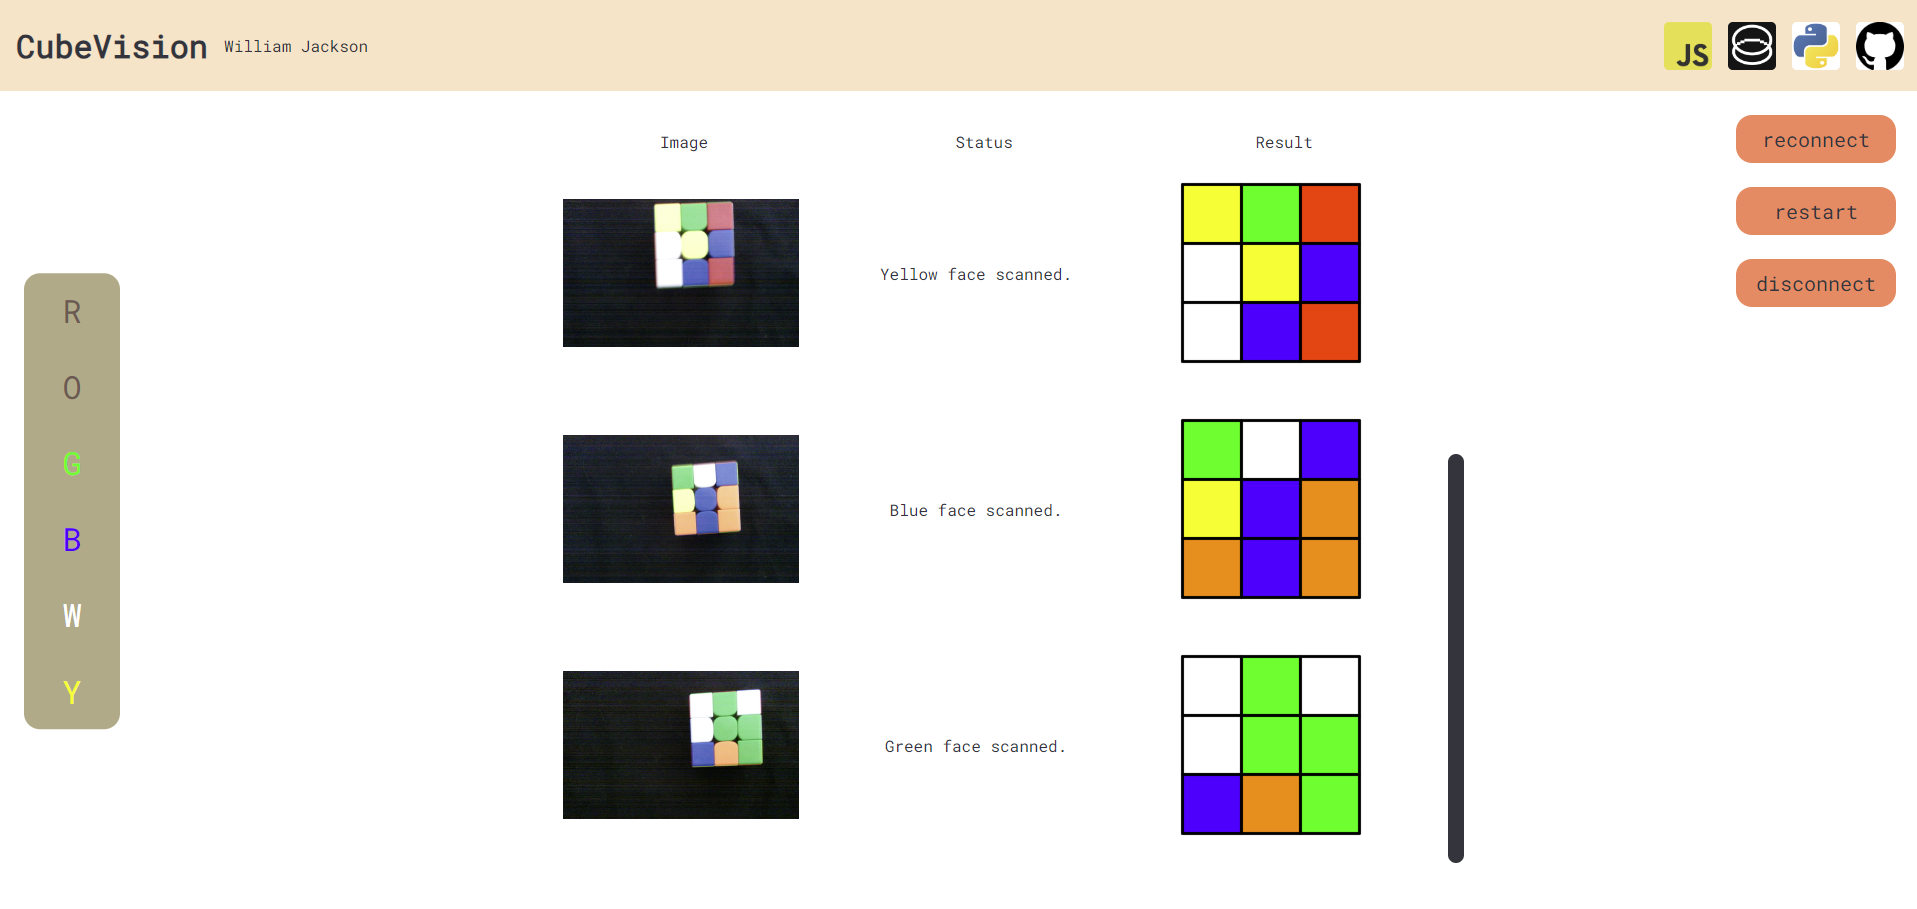
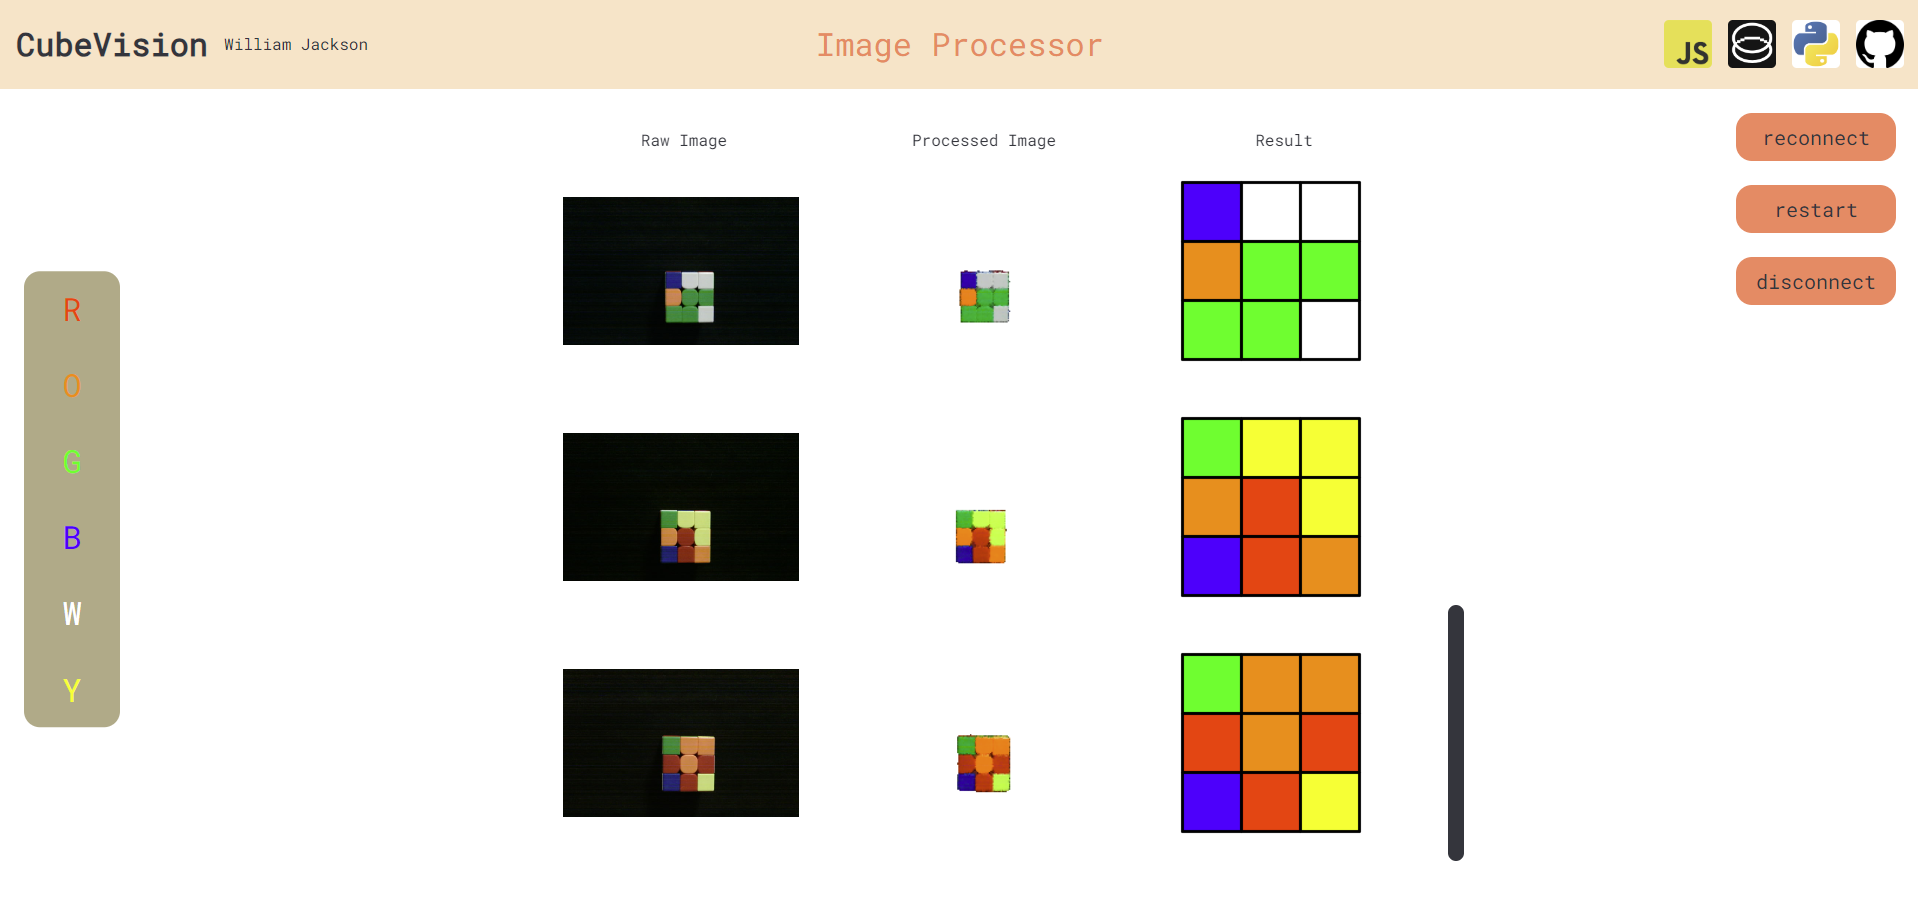
balancer, improvements, bugfixes
Added a color balancer to the image processor in an attempt to reduce some of the Monocle camera's problems. Fixed a ton of small bugs, and made some minor improvements to the UI.

diff --git a/src/scripts/cubevision.js b/src/scripts/cubevision.js
@@ -1,4 +1,4 @@
-const FACE_DATA = {
+let FACE_DATA = {
     "r": false,
     "g": false,
     "b": false,
@@ -15,11 +15,13 @@ window.onload = () => {
     document.querySelector("#button-connect").onclick = connect;
     document.querySelector("#button-reconnect").onclick = connect;
     document.querySelector("#button-restart").onclick = reset;
+    document.querySelector("#button-disconnect").onclick = disconnect;
 
     connectScreen();
 }
 
-function makeTableRow(imageData, result, faceString) {
+function makeTableRow(imageData, processed, faceString) {
+    console.log(imageData, processed, faceString);
     const row = document.createElement("div");
     row.className = "table-row";
     
@@ -27,8 +29,9 @@ function makeTableRow(imageData, result, faceString) {
     rawImage.width = 640;
     rawImage.height = 400;
     
-    const resultString = document.createElement("p");
-    resultString.innerText = result;
+    const resultString = document.createElement("canvas");
+    resultString.width = 200;
+    resultString.height = 125;
 
     const faceImage = document.createElement("canvas");
     faceImage.width = 400;
@@ -42,36 +45,60 @@ function makeTableRow(imageData, result, faceString) {
     parent.scrollTop = parent.scrollHeight;
     face.draw();
     rawImage.getContext("2d").putImageData(imageData, 0, 0);
+    resultString.getContext("2d").putImageData(processed, 0, 0);
 }
 
 function setOpacity(l, o) {
-    l.forEach(id => document.querySelector('#' + id).style.opacity = o);
+    l.forEach(id => {
+        const el = document.querySelector('#' + id);
+        el.style.opacity = o;
+        el.style.zIndex = 1000*o;
+    });
 }
 
 function connectScreen() {
     setOpacity(["button-connect"], 1);
     setOpacity(["button-reconnect", "button-restart", "p-solution", "faces-found", "canvas-3dvis", "table-images", "button-disconnect"], 0);
     CUBE.stop();
+    document.querySelector("#title").innerText = "Connect";
 }
 
 function imageProcessorScreen() {
     setOpacity(["button-reconnect", "button-restart", "faces-found", "table-images", "button-disconnect"], 1);
     setOpacity(["button-connect", "p-solution", "canvas-3dvis"], 0);
     CUBE.stop();
+    document.querySelector("#title").innerText = "Image Processor";
 }
 
 function solutionScreen() {
     setOpacity(["button-reconnect", "button-restart", "p-solution", "canvas-3dvis", "button-disconnect"], 1);
     setOpacity(["button-connect", "faces-found", "table-images"], 0);
     CUBE.start();
+    document.querySelector("#title").innerText = "Solution";
 }
 
 function connect() {
-    Monocle.connect().then(_ => imageProcessorScreen())
+    Monocle.connect().then(_ => imageProcessorScreen());
 }
 
 function reset() {
-    // TODO: send reset signal to moncle, clear image cache or show reconnect screen depending on monocle behavior
+    // TODO: send reset signal to moncle, clear image cache and show reconnect screen
+    Monocle.transmit("reset:reset").then(_ => {
+        imageProcessorScreen();
+        FACE_DATA = {
+            "r": false,
+            "g": false,
+            "b": false,
+            "o": false,
+            "w": false,
+            "y": false
+        };
+        document.querySelector("#table-body").innerHTML = "";
+    });
+}
+
+function disconnect() {
+    Monocle.disconnect();
 }
 
 function resetFaceIndicators() {
@@ -84,13 +111,14 @@ function colorFaceIndicator(letter) {
 }
 
 function handleImage(data) {
-    const parsed = ImageProcessor.process(data);
+    const cleaned = ImageProcessor.cleanUp(data);
+    const parsed = ImageProcessor.scanAsCube(cleaned);
     // figure out if parsed successfully
-    // add row to table page
+    // add row to table
     // send response to monocle
     if (parsed === "") {
         // image processing failed
-        makeTableRow(data, "Invalid", "kkkkkkkkk");
+        makeTableRow(data, cleaned, "kkkkkkkkk");
         Monocle.transmit("face:fail");
     } else {
         // image processing success
@@ -103,7 +131,7 @@ function handleImage(data) {
             "y": "Yellow"
         }
         const faceColor = colorMap[parsed[4]];
-        makeTableRow(data, `${faceColor} face scanned.`, parsed);
+        makeTableRow(data, cleaned, parsed);
         colorFaceIndicator(parsed[4]);
         FACE_DATA[parsed[4]] = parsed;
         Monocle.transmit("face:" + faceColor.toLowerCase());
@@ -115,11 +143,17 @@ function handleImage(data) {
 }
 
 function solve() {
-    solutionScreen();
-    const cubeData = FaceJoiner.join(Object.values(FACE_DATA));
+    let cubeData;
+    try {
+        cubeData = FaceJoiner.join(Object.values(FACE_DATA));
+    } catch {
+        alert("Face joiner error: at least one face was scanned incorrectly.");
+        return;
+    }
 	CUBE.data = cubeData;
 	const solution = Solver.solve(cubeData);
-	document.querySelector("#p-solution").innerText = solution;
+	document.querySelector("#p-solution p").innerText = solution;
     Monocle.transmit("cube:" + Solver.stringify(cubeData))
         .then(_ => Monocle.transmit("solution:" + solution));
+    solutionScreen();
 }

diff --git a/src/scripts/KNNModelData.js b/src/scripts/KNNModelData.js
@@ -1,6 +1,6 @@
 const KNN = {};
 
-KNN.trainingDataDarker = 
+KNN.DARK_NO_BALANCE = 
 [
     [33, 83, 146, "b"], [90, 167, 104, "g"], [205, 189, 188, "w"], [223, 140, 99, "o"], [75, 163, 80, "g"], [216, 124, 82, "o"], [227, 141, 93, "o"], [79, 167, 84, "g"], [162, 55, 45, "r"],
     [211, 230, 143, "y"], [202, 211, 121, "y"], [187, 109, 78, "o"], [202, 209, 223, "w"], [149, 33, 39, "r"], [8, 47, 122, "b"], [215, 234, 144, "y"], [217, 117, 80, "o"], [25, 52, 118, "b"],
@@ -12,10 +12,18 @@ KNN.trainingDataDarker =
     [58, 82, 140, "b"], [193, 198, 212, "w"], [193, 209, 125, "y"], [215, 130, 103, "o"], [187, 196, 206, "w"], [158, 67, 64, "r"], [171, 55, 62, "r"], [191, 199, 210, "w"], [66, 137, 73, "g"],
     [197, 207, 101, "y"], [211, 107, 61, "o"], [214, 113, 70, "o"], [62, 155, 62, "g"], [213, 111, 58, "o"], [30, 53, 105, "b"], [187, 195, 183, "w"], [155, 50, 48, "r"], [28, 49, 100, "b"],
 ];
-KNN.trainingDataLighter = [
+KNN.LIGHT_NO_BALANCE = [
     [255, 189, 132, "o"], [209, 88, 92, "r"], [93, 132, 202, "b"], [247, 242, 182, "y"], [211, 87, 78, "r"], [249, 185, 133, "o"], [242, 245, 179, "y"], [241, 240, 173, "y"], [122, 213, 126, "g"],
     [213, 101, 118, "r"], [248, 243, 198, "y"], [199, 122, 126, "r"], [245, 249, 249, "w"], [225, 244, 243, "w"], [111, 209, 128, "g"], [248, 252, 189, "y"], [51, 109, 183, "b"], [227, 241, 242, "w"],
     [249, 202, 142, "o"], [114, 136, 187, "b"], [254, 220, 159, "o"], [252, 197, 134, "o"], [85, 119, 178, "b"], [247, 251, 185, "y"], [116, 128, 160, "b"], [226, 231, 235, "w"], [128, 214, 121, "g"],
     [138, 229, 142, "g"], [242, 192, 136, "o"], [123, 159, 211, "b"], [129, 228, 138, "g"], [124, 219, 132, "g"], [243, 245, 246, "w"], [232, 246, 232, "w"], [116, 215, 121, "g"], [238, 249, 238, "w"],
     [251, 252, 198, "y"], [111, 207, 122, "g"], [216, 98, 111, "r"], [247, 243, 242, "w"], [242, 242, 186, "y"], [62, 112, 181, "b"], [244, 247, 247, "w"], [84, 126, 173, "b"], [179, 74, 89, "r"],
 ];
+KNN.DARK_BALANCE = [
+    [182, 234, 69, "y"], [179, 192, 179, "w"], [200, 17, 16, "r"], [7, 42, 148, "b"], [152, 194, 177, "w"], [190, 221, 74, "y"], [154, 169, 177, "w"], [14, 160, 52, "g"], [182, 52, 18, "r"],
+    [241, 112, 7, "o"], [196, 227, 63, "y"], [53, 181, 30, "g"], [26, 36, 122, "b"], [9, 48, 145, "b"], [186, 190, 180, "w"], [205, 94, 14, "o"], [209, 91, 13, "o"], [24, 47, 131, "b"],
+    [190, 191, 180, "w"], [198, 199, 178, "w"], [199, 249, 82, "y"], [9, 41, 142, "b"], [172, 219, 62, "y"], [32, 177, 16, "g"], [176, 26, 18, "r"], [13, 40, 119, "b"], [199, 27, 0, "r"],
+    [4, 38, 159, "b"], [183, 190, 186, "w"], [193, 201, 194, "w"], [220, 109, 11, "o"], [14, 168, 52, "g"], [11, 167, 43, "g"], [24, 165, 43, "g"], [4, 168, 46, "g"], [155, 194, 166, "w"],
+    [11, 181, 43, "g"], [192, 245, 70, "y"], [200, 253, 72, "y"], [228, 101, 0, "o"], [198, 26, 2, "r"], [199, 237, 62, "y"], [4, 35, 137, "b"], [199, 21, 1, "r"], [248, 109, 1, "o"],
+    [13, 166, 31, "g"], [254, 111, 4, "o"], [249, 105, 1, "o"], [193, 15, 6, "r"], [238, 97, 2, "o"], [209, 29, 8, "r"], [11, 31, 137, "b"], [196, 21, 6, "r"], [189, 206, 55, "y"],
+]

diff --git a/src/scripts/ColorBalancer.js b/src/scripts/ColorBalancer.js
@@ -1,0 +1,39 @@
+// attempts to correct for the color balance issues of the Monocle's camera.
+class Balancer {
+    static BG_THICKNESS = 10
+    static DIFF_MULTIPLIER = 0.5;
+    static WHITE_THRESH = 180
+    static WHITE_DIFF_THRESH = 10
+    static GREEN_REDUCTION = 20;
+    static balance(imageData) {
+        const bgColor = ImageProcessor.getBackgroundColor(imageData, Balancer.BG_THICKNESS);
+        // emphasize color contrast:
+        // add a difference multiplier where the brightest channel goes up by 3x the color gap and the dimmest channel goes down by that multiplier
+        const subtract = (bgColor[0] + bgColor[1] + bgColor[2]) / 3;
+        const out = new ImageData(imageData.width, imageData.height);
+        for (let i = 0; i < out.data.length; i += 4) {
+            out.data[i+3] = 255; // set alpha to 1
+            out.data[i+2] -= Balancer.GREEN_REDUCTION
+            let brightest = i;
+            let dimmest = i;
+            for (let j = i; j < i + 3; j++) {
+                out.data[j] = Math.max(imageData.data[j] - subtract, 0);
+                if (out.data[j] > out.data[brightest]) brightest = j;
+                if (out.data[j] < out.data[dimmest]) dimmest = j;
+            }
+            const gap = out.data[brightest] - out.data[dimmest];
+            if (gap < Balancer.WHITE_DIFF_THRESH) {
+                if (out.data[i] > Balancer.WHITE_THRESH) {
+                    // pixel is probably white, boost all channels
+                    out.data[i] += Balancer.DIFF_MULTIPLIER * 10;
+                    out.data[i+1] += Balancer.DIFF_MULTIPLIER * 10;
+                    out.data[i+2] += Balancer.DIFF_MULTIPLIER * 10;
+                }
+                continue;
+            }
+            out.data[brightest] += gap * Balancer.DIFF_MULTIPLIER;
+            out.data[dimmest] -= gap * Balancer.DIFF_MULTIPLIER;
+        }
+        return out;
+    }
+}

diff --git a/src/scripts/ImageProcessor.js b/src/scripts/ImageProcessor.js
@@ -10,7 +10,7 @@ const ImageProcessor = {
 	ANGLE_TOLERANCE: Math.PI / 12, //square detection. absolute difference between two corners must be within this value of ANGLE_GAP
 	ANGLE_GAP: Math.PI / 2, // square detection. ideal angle between corners
 	TILE_N_SAMPLES: 25, // number of pixels sampled from the square to determine each tile's color
-	trainingData: KNN.trainingDataLighter // change to any one of the datasets in KNNModelData as-needed by lighting conditions.
+	trainingData: KNN.DARK_BALANCE // change to any one of the datasets in KNNModelData as-needed by lighting conditions.
 };
 
 //attempts to process the given image data as a picture of a rubik's cube face.
@@ -75,6 +75,41 @@ ImageProcessor.process = (data) => {
 		return "";
 	}
 
+}
+
+ImageProcessor.cleanUp = (data) => {
+	const balanced = Balancer.balance(data);
+	const img = ImageProcessor.fillGaps(
+		ImageProcessor.removeBackground(
+			ImageProcessor.scale(balanced, ImageProcessor.SCALE_PX),
+			ImageProcessor.BG_SCAN_THICKNESS, 
+			ImageProcessor.COLOR_THRESH)
+	);
+	return img;
+}
+ImageProcessor.scanAsCube = (img) => {
+	try {
+		const center = ImageProcessor.findCenter(img);
+		const maxima = ImageProcessor.getMaxima(
+			ImageProcessor.smoothData(
+				ImageProcessor.scanShape(img, center, ImageProcessor.N_SCAN_STEPS)
+			)
+		);
+		if (!ImageProcessor.isSquare(maxima)) {
+			return "";
+		}
+		return ImageProcessor.mapToLetters(
+			ImageProcessor.getTileColors(
+				img, 
+				ImageProcessor.getSquareFunction(
+					ImageProcessor.polarToCartesian(maxima, center)
+				)
+			),
+			ImageProcessor.trainingData
+		).join("");
+	} catch {
+		return "";
+	}
 }
 
 //scales an image to be targetWidth pixels wide.

diff --git a/cubevision.html b/cubevision.html
@@ -7,11 +7,14 @@
 	<script src="src/cubejs/lib/cube.js"></script>
 	<script src="src/cubejs/lib/solve.js"></script>
 	<script src="src/scripts/Solver.js"></script>
+	<script src="src/scripts/ColorBalancer.js"></script>
     <script src="src/scripts/MonocleInterface.js"></script>
     <script src="src/scripts/cubevision.js"></script>
 	<link rel="stylesheet" href="src/styles/cubevision.css">
 </head>
 <body>
+	<div id="blocker"></div>
+	<p id="title"></p>
 	<div id="top-banner">
 		<div id="text">
 			<h1>CubeVision</h1>
@@ -27,8 +30,8 @@
 	<div id="body-content">
 		<div id="table-images" class="hidden">
 			<div class="table-row">
-				<p>Image</p>
-				<p>Status</p>
+				<p>Raw Image</p>
+				<p>Processed Image</p>
 				<p>Result</p>
 			</div>
 			<div id="table-body">
@@ -44,7 +47,7 @@
 			<p id="w" class="face-letter">W</p>
 			<p id="y" class="face-letter">Y</p>
 		</div>
-		<div id = "p-solution" class="hidden"><p>Example Solution</p></div>
+		<div id="p-solution" class="hidden"><p>Example Solution</p></div>
 		<button id="button-connect" class="button large hidden">connect</button>
 		<button id="button-reconnect" class="button hidden">reconnect</button>
 		<button id="button-restart" class="button hidden">restart</button>

diff --git a/src/styles/cubevision.css b/src/styles/cubevision.css
@@ -158,6 +158,24 @@ body {
     top: 50%;
     transform: translate(-50%, -50%);
 }
+#title {
+    position: absolute;
+    margin: 0;
+    left: 50%;
+    top: 1.5rem;
+    transform: translateX(-50%);
+    color: #FA7E61;
+    font-size: 2rem;
+    font-family: RobotoMono;
+}
+#blocker {
+    position: absolute;
+    left: 0;
+    top: 0;
+    width: 100vw;
+    height: 100vh;
+    z-index: 500;
+}
 
 .button {
     width: var(--button-width);

diff --git a/maketrainingdata.html b/maketrainingdata.html
@@ -1,5 +1,6 @@
 <head>
 	<link rel="stylesheet" href="src/styles/styles.css">
+	<script src="src/scripts/KNNModelData.js"></script>
 	<script src="src/scripts/ImageProcessor.js"></script>
 	<script src="src/scripts/maketrainingdata.js"></script>
 </head>

diff --git a/monocle/main.py b/monocle/main.py
@@ -5,6 +5,7 @@ import camera
 import ui
 import touch
 import cube_vis
+import device
 
 NOT_CONNECTED_BLINK_DELAY = 300 #ms
 CAMERA_CAPTURE_DELAY = 100 #ms, time before camera data is sent
@@ -50,10 +51,8 @@ def handle_response_data(data):
         if msg_data in img_status:
             # image processing success
             img_status[msg_data] = True
-            ui.show_capture_screen(img_status, status="ready")
-        else:
-            ui.show_capture_screen(img_status, status="invalid image.")
-        
+            
+        ui.show_capture_screen(img_status, status="ready")
         camera_ready = True
 
     elif msg_type == "cube":
@@ -62,6 +61,8 @@ def handle_response_data(data):
     elif msg_type == "solution":
         # TODO: load solution data into 3d visualizer, go to solution screen. (change touch handler also)
         cube_vis.parse_solution(msg_data)
+    elif msg_type == "reset":
+        device.reset()
     
     if cube_vis.is_ready():
         # go to solution screen
